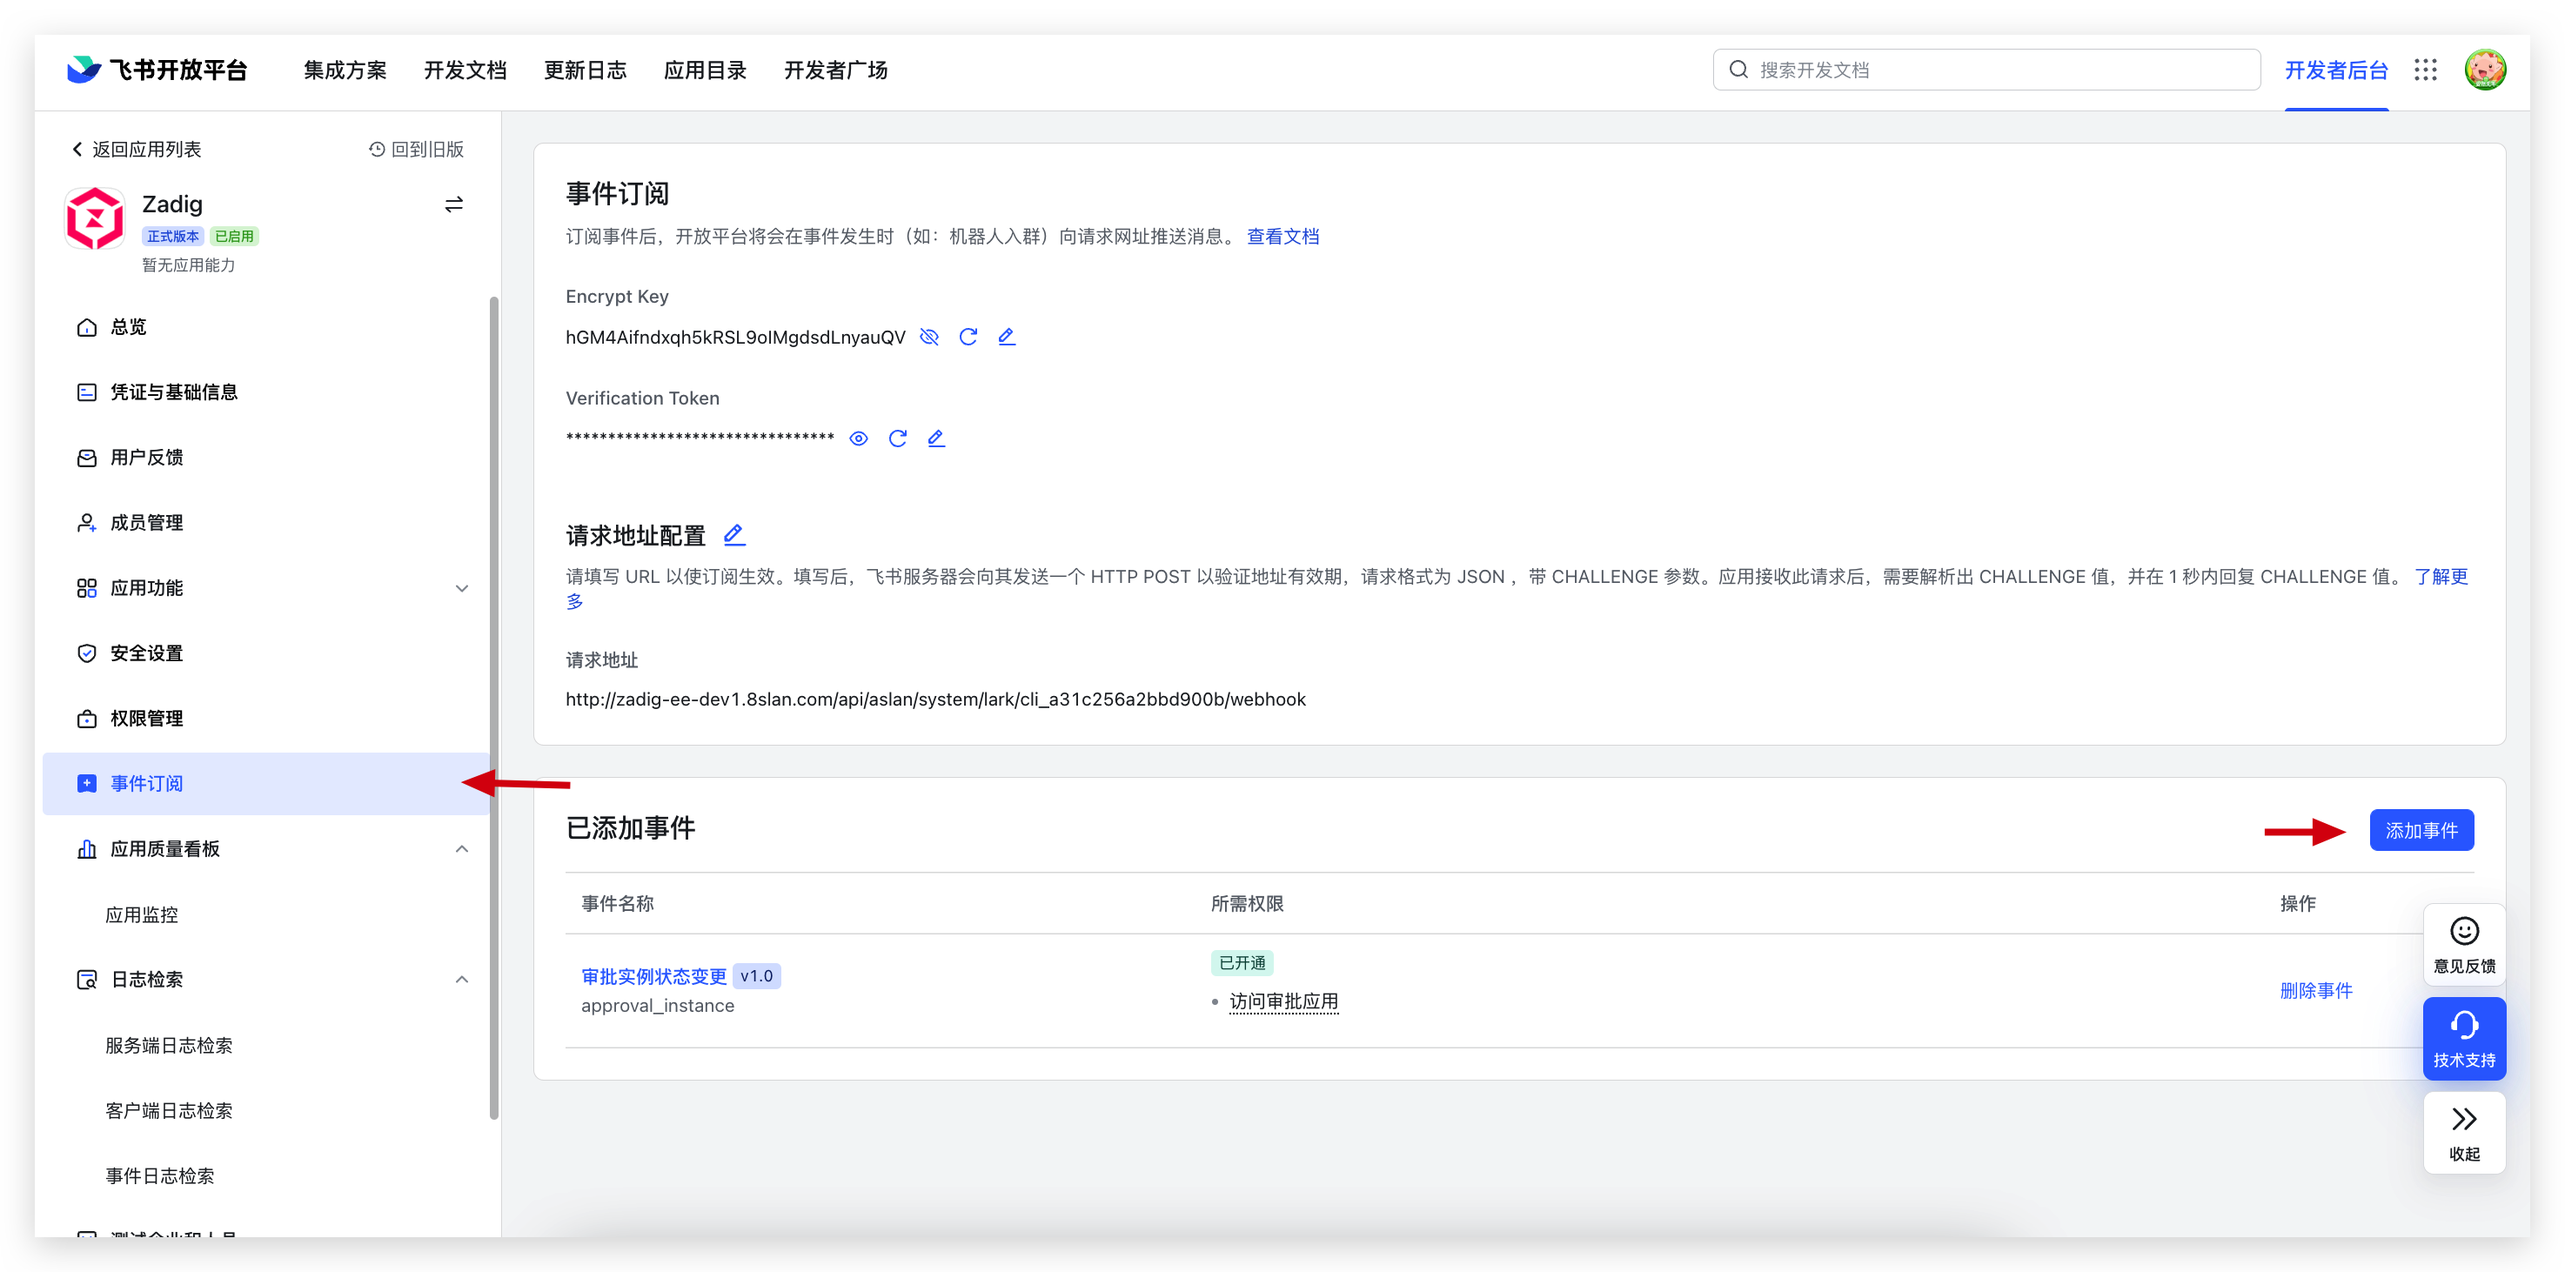
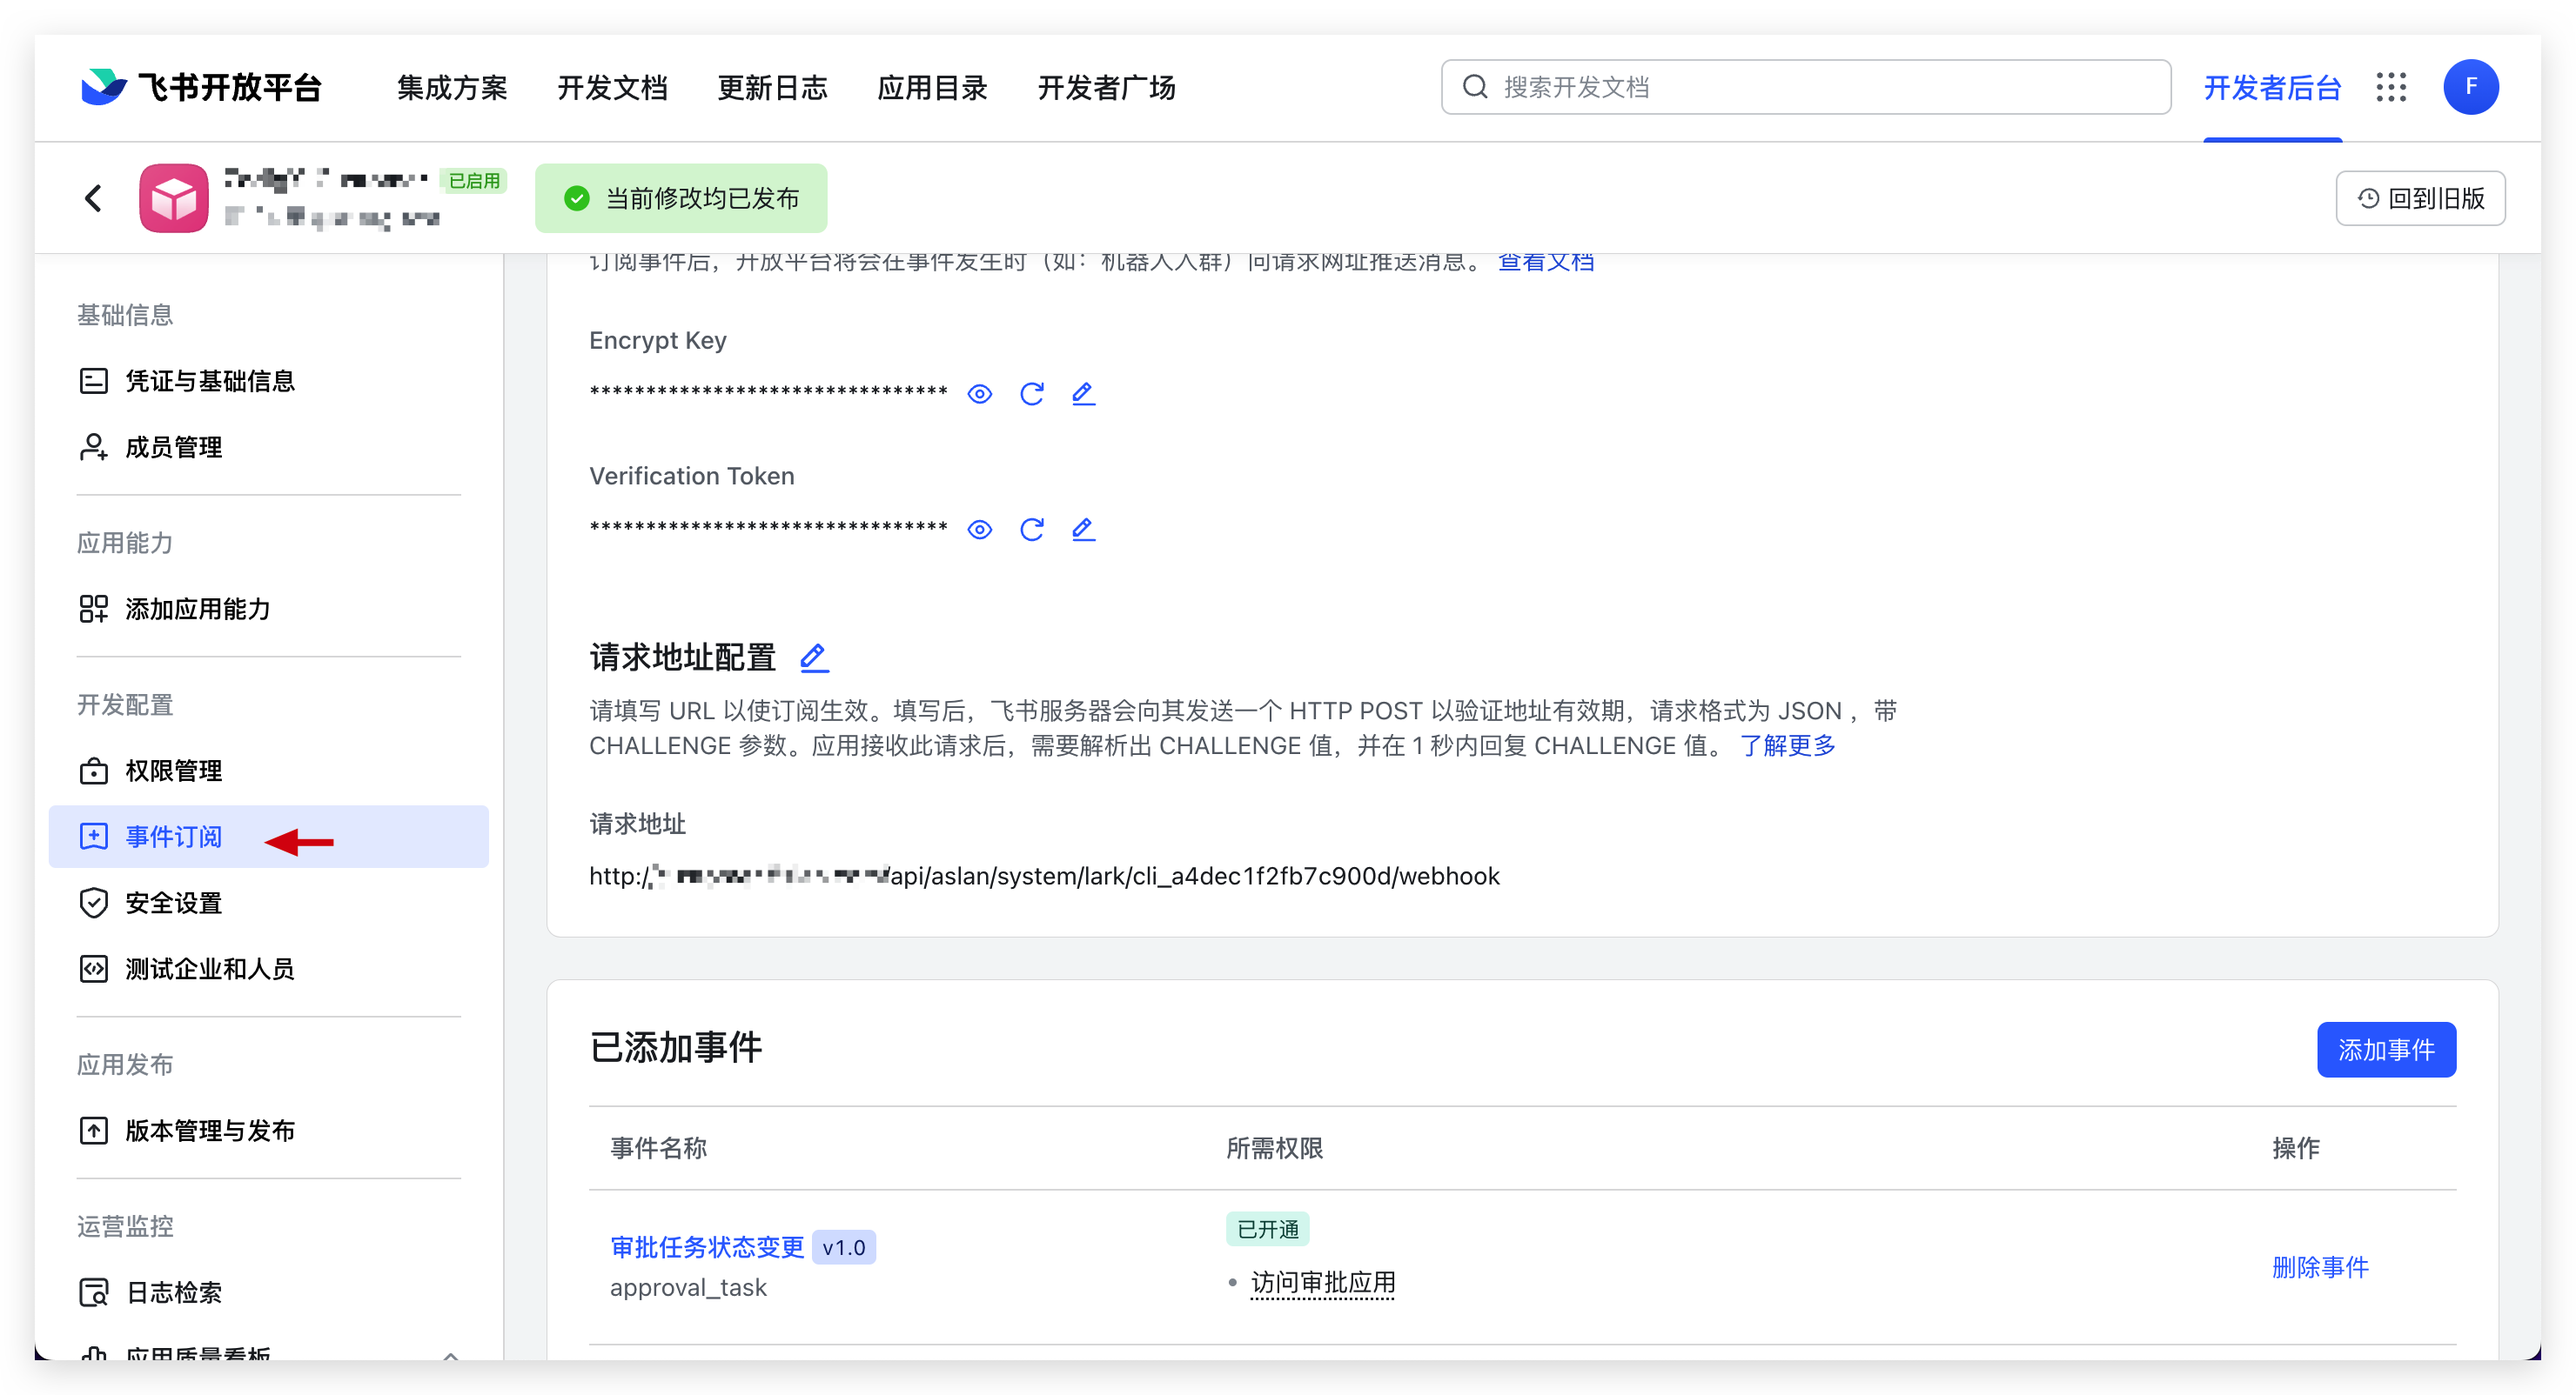
update lark approval config

diff --git a/ZadigX v1.5.0/05.功能介绍/18.系统设置/06.approval.md b/ZadigX v1.5.0/05.功能介绍/18.系统设置/06.approval.md
@@ -8,6 +8,10 @@ permalink: /ZadigX v1.5.0/settings/approval/
 
 ## 飞书
 
+::: tip
+用户在飞书上审批完成后，飞书平台需回调审批状态到 ZadigX 上，为保证飞书审批功能正常使用，请保证飞书平台可以访问 ZadigX 域名。
+:::
+
 可以按照以下流程配置飞书审批：
 1. 在飞书开发者平台创建应用并发布
 2. 配置应用凭证信息到 ZadigX 系统，获得应用推送事件消息的`请求地址`
@@ -55,8 +59,7 @@ permalink: /ZadigX v1.5.0/settings/approval/
 
 ![approval](./_images/approval_7.png)
 
-
-2. 添加事件。点击「事件订阅」-> 「添加事件」，选择`审批实例状态变更`。
+2. 添加事件。点击「事件订阅」-> 「添加事件」，选择`审批任务状态变更`。
 
 ![approval](./_images/approval_2_1.png)
 

diff --git a/ZadigX dev/05.功能介绍/18.系统设置/06.approval.md b/ZadigX dev/05.功能介绍/18.系统设置/06.approval.md
@@ -4,9 +4,11 @@ date: 2022-12-08 16:05:01
 permalink: /ZadigX dev/settings/approval/
 ---
 
-
-
 本文介绍在 ZadigX 系统上集成飞书审批应用。
+
+::: tip
+用户在飞书上审批完成后，飞书平台需回调审批状态到 ZadigX 上，为保证飞书审批功能正常使用，请保证飞书平台可以访问 ZadigX 域名。
+:::
 
 可以按照以下流程配置：
 1. 在飞书开发者平台创建应用并发布
@@ -56,8 +58,7 @@ permalink: /ZadigX dev/settings/approval/
 
 ![approval](./_images/approval_7.png)
 
-
-2. 添加事件。点击「事件订阅」-> 「添加事件」，选择`审批实例状态变更`。
+2. 添加事件。点击「事件订阅」-> 「添加事件」，选择`审批任务状态变更`。
 
 ![approval](./_images/approval_2_1.png)
 

diff --git a/ZadigX v1.4.0/05.功能介绍/18.系统设置/06.approval.md b/ZadigX v1.4.0/05.功能介绍/18.系统设置/06.approval.md
@@ -4,9 +4,11 @@ date: 2022-12-08 16:05:01
 permalink: /ZadigX v1.4.0/settings/approval/
 ---
 
-
-
 本文介绍在 ZadigX 系统上集成飞书审批应用。
+
+::: tip
+用户在飞书上审批完成后，飞书平台需回调审批状态到 ZadigX 上，为保证飞书审批功能正常使用，请保证飞书平台可以访问 ZadigX 域名。
+:::
 
 可以按照以下流程配置：
 1. 在飞书开发者平台创建应用并发布

diff --git a/ZadigX v1.4.0/05.功能介绍/18.系统设置/01.项目管理/01.lark.md b/ZadigX v1.4.0/05.功能介绍/18.系统设置/01.项目管理/01.lark.md
@@ -8,10 +8,6 @@ permalink: /ZadigX v1.4.0/settings/lark/
 
 ## 如何配置
 
-::: tip
-用户在飞书上审批完成后，飞书平台需回调审批状态到 ZadigX 上，为保证飞书审批功能正常使用，请保证飞书平台可以访问 ZadigX 域名。
-:::
-
 ### 步骤一：飞书插件配置
 进入飞书项目，点击左下角头像，点击 `开发者后台`。
 

diff --git a/ZadigX v1.5.0/05.功能介绍/18.系统设置/01.项目管理/01.lark.md b/ZadigX v1.5.0/05.功能介绍/18.系统设置/01.项目管理/01.lark.md
@@ -8,10 +8,6 @@ permalink: /ZadigX v1.5.0/settings/lark/
 
 ## 如何配置
 
-::: tip
-用户在飞书上审批完成后，飞书平台需回调审批状态到 ZadigX 上，为保证飞书审批功能正常使用，请保证飞书平台可以访问 ZadigX 域名。
-:::
-
 ### 步骤一：飞书插件配置
 进入飞书项目，点击左下角头像，点击 `开发者后台`。
 

diff --git a/ZadigX dev/05.功能介绍/18.系统设置/01.项目管理/01.lark.md b/ZadigX dev/05.功能介绍/18.系统设置/01.项目管理/01.lark.md
@@ -8,10 +8,6 @@ permalink: /ZadigX dev/settings/lark/
 
 ## 如何配置
 
-::: tip
-用户在飞书上审批完成后，飞书平台需回调审批状态到 ZadigX 上，为保证飞书审批功能正常使用，请保证飞书平台可以访问 ZadigX 域名。
-:::
-
 ### 步骤一：飞书插件配置
 进入飞书项目，点击左下角头像，点击 `开发者后台`。
 
